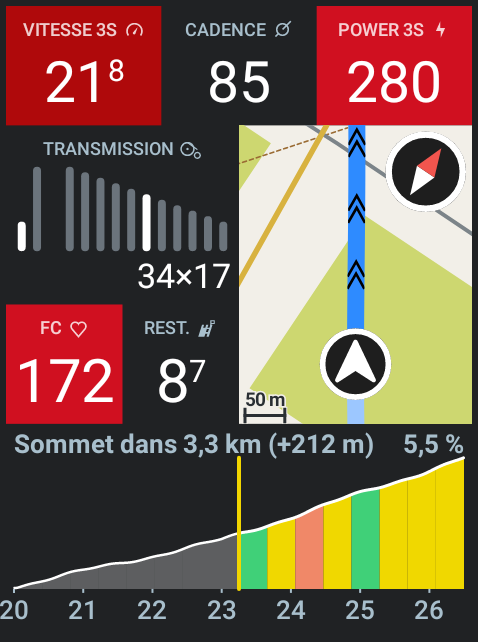
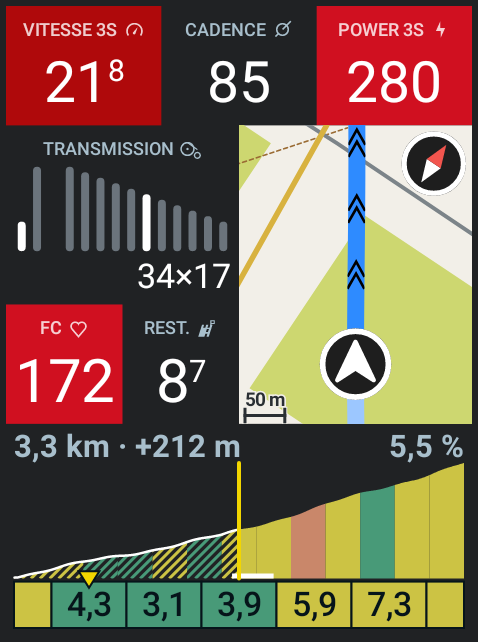
Montre le bilan en deux pages de six dans le simulateur et le README
La page de dix n'était plus celle du coureur, et les cases y restaient trop petites pour que
leur disposition empilée se déclenche : le simulateur jugeait une page que personne ne pose.

Changed region(s): [[0.0, 0.6542, 0.9958, 0.9969], [0.0293, 0.6542, 0.7908, 0.7165], [0.7908, 0.1869, 0.9665, 0.3427]]

diff --git a/app/src/test/kotlin/io/github/jmallus/guidage/sim/SimulateurTest.kt b/app/src/test/kotlin/io/github/jmallus/guidage/sim/SimulateurTest.kt
@@ -340,7 +340,7 @@ class SimulateurTest {
     }
 
     /**
-     * Les six cases de bilan, à la taille qu'elles ont sur une page qui en porte dix.
+     * Les cases de bilan, à la taille qu'elles ont sur une page qui en porte six.
      *
      * Elles se contrôlent aux mêmes moments que le reste, et pour la même raison : une case
      * qui n'a rien à dire ne lève aucune exception et se compile parfaitement. Elle ne se
@@ -362,9 +362,7 @@ class SimulateurTest {
                     couleursDistinctes(image) > 2,
                 )
             }
-            if (part == PART_CAPTURE) {
-                ecrire(pageDeBilan(simulateur, secondes), File(dossier, "champ-bilan.png"))
-            }
+            if (part == PART_CAPTURE) ecrirePagesDeBilan(simulateur, secondes, dossier, "champ-bilan")
         }
 
         // Une seconde planche à la fin de la sortie. Trois cases n'existent pas au quart :
@@ -372,22 +370,30 @@ class SimulateurTest {
         // la batterie n'a pas assez descendu pour qu'on lui connaisse une pente. Une planche
         // qui ne montre que leurs messages d'attente ne les juge pas.
         val fin = simulateur.sortie.duree * PART_CAPTURE_FIN
-        ecrire(pageDeBilan(simulateur, fin), File(dossier, "champ-bilan-fin.png"))
+        ecrirePagesDeBilan(simulateur, fin, dossier, "champ-bilan-fin")
+    }
+
+    /** Une image par page : « champ-bilan.png » pour la première, « champ-bilan-2.png »… */
+    private fun ecrirePagesDeBilan(simulateur: Simulateur, secondes: Double, dossier: File, nom: String) {
+        Simulateur.PAGES_BILAN.forEachIndexed { rang, cases ->
+            val suffixe = if (rang == 0) "" else "-${rang + 1}"
+            ecrire(pageDeBilan(simulateur, secondes, cases), File(dossier, "$nom$suffixe.png"))
+        }
     }
 
     /**
-     * Les six cases posées comme sur une page : deux colonnes, trois rangs.
+     * Une page de cases de bilan, posée comme sur le Karoo : deux colonnes, trois rangs.
+     * Une page incomplète garde sa hauteur, ses rangs vides compris.
      *
      * Elles se jugent ensemble et non une par une — c'est tout leur propos, une page où l'on
      * lit le bilan d'un coup d'œil — et six fichiers séparés ne montreraient pas si leurs
      * chiffres s'alignent, si leurs libellés font famille, si un aplat écrase ses voisins.
      * Les traits sont ceux que le Karoo pose lui-même entre les champs d'une page.
      */
-    private fun pageDeBilan(simulateur: Simulateur, secondes: Double): Bitmap {
+    private fun pageDeBilan(simulateur: Simulateur, secondes: Double, cases: List<Bilan>): Bitmap {
         val largeur = Simulateur.LARGEUR_BILAN
         val hauteur = Simulateur.HAUTEUR_BILAN
-        val cases = Bilan.entries
-        val rangs = (cases.size + 1) / 2
+        val rangs = 3
         val page = Bitmap.createBitmap(largeur * 2, hauteur * rangs, Bitmap.Config.ARGB_8888)
         val canvas = Canvas(page)
         cases.forEachIndexed { index, variante ->
@@ -478,7 +484,8 @@ class SimulateurTest {
         // Les pleines pages d'abord, chacune tenant sa colonne ; les champs de bande ensuite.
         champ("Tableau de bord", simulateur.image(secondes)),
         champ("Profil à venir", simulateur.imageProfil(secondes)),
-        champ("Bilan", pageDeBilan(simulateur, secondes)),
+        champ("Bilan 1/2", pageDeBilan(simulateur, secondes, Simulateur.PAGES_BILAN[0])),
+        champ("Bilan 2/2", pageDeBilan(simulateur, secondes, Simulateur.PAGES_BILAN[1])),
     )
 
     private fun champ(nom: String, image: Bitmap) =

diff --git a/app/src/test/kotlin/io/github/jmallus/guidage/sim/Simulateur.kt b/app/src/test/kotlin/io/github/jmallus/guidage/sim/Simulateur.kt
@@ -271,9 +271,8 @@ class Simulateur(
     /**
      * Une case de bilan, à la taille qu'elle a sur une page qui en porte dix.
      *
-     * Le Karoo découpe l'écran sur une grille de soixante : dix cases font deux colonnes de
-     * cinq, soit une demi-largeur sur un cinquième de hauteur. C'est la seule taille où ces
-     * cases se jugent — à pleine page elles seraient somptueuses et personne ne les y mettrait.
+     * Le Karoo découpe l'écran sur une grille de soixante : six cases font deux colonnes de
+     * trois, soit une demi-largeur sur un tiers de hauteur — la page du coureur.
      */
     fun imageBilan(
         variante: Bilan,
@@ -390,9 +389,18 @@ class Simulateur(
          */
         val HAUTEUR_PROFIL: Int = HAUTEUR / 4
 
-        /** Une case de bilan sur une page qui en porte dix : 30 × 12 sur la grille. */
+        /**
+         * Une case de bilan sur une page qui en porte six : 30 × 20 sur la grille.
+         *
+         * C'était une page de dix, et les cases y étaient illisibles en roulant ; le coureur
+         * les a passées à six par page, sur deux pages, et c'est à cette taille qu'elles se
+         * jugent désormais.
+         */
         val LARGEUR_BILAN: Int = LARGEUR / 2
-        val HAUTEUR_BILAN: Int = HAUTEUR / 5
+        val HAUTEUR_BILAN: Int = HAUTEUR / 3
+
+        /** Les cases de chaque page de bilan, dans l'ordre où le coureur les a posées. */
+        val PAGES_BILAN: List<List<Bilan>> = Bilan.entries.chunked(6)
 
         /**
          * Le corps que le Karoo emploie lui-même pour un champ numérique de cette taille.

diff --git a/README.md b/README.md
@@ -37,7 +37,7 @@ qui le dessine.
 ### Le bilan de la sortie
 
 Dix cases qui disent ce que la sortie **vaut depuis le départ**. Elles tiennent chacune dans
-une case ordinaire — une page en porte dix — et c'est là toute leur raison d'être : le Karoo
+une case ordinaire — une page en porte six pour les lire en roulant — et c'est là toute leur raison d'être : le Karoo
 publie déjà la plupart de ces nombres, mais **un par champ**, si bien qu'une moyenne et son
 maximum coûtent deux emplacements et que le coureur fait la soustraction de tête. Ici les deux
 voyagent ensemble, et la case dit en plus ce que leur voisinage veut dire.
@@ -68,14 +68,18 @@ l'extension, faits localement et sans réseau comme tout le reste :
   paie. Aucun compteur ne l'affiche en roulant. Elle se calcule sur le temps d'effort seul et
   se tait sous une heure.
 
-Les dix, posées comme sur une page — au quart de la sortie simulée, puis à son terme. Trois
-d'entre elles n'existent pas encore au quart : la dérive se tait, les haltes n'ont pas eu
-lieu, la charge n'a pas assez descendu pour qu'on lui connaisse une pente.
+Les dix, posées six par page sur deux pages — au quart de la sortie simulée, puis à son
+terme. Trois d'entre elles n'existent pas encore au quart : la dérive se tait, les haltes
+n'ont pas eu lieu, la charge n'a pas assez descendu pour qu'on lui connaisse une pente.
 
 <table>
   <tr>
-    <td align="center"><img src="docs/captures/champ-bilan.png" width="300" alt="Les dix cases de bilan au quart de la sortie"><br><b>Au quart de la sortie</b></td>
-    <td align="center"><img src="docs/captures/champ-bilan-fin.png" width="300" alt="Les dix cases de bilan à l'arrivée"><br><b>À l'arrivée</b></td>
+    <td align="center"><img src="docs/captures/champ-bilan.png" width="240" alt="Première page de bilan au quart de la sortie"><br><b>Page 1, au quart</b></td>
+    <td align="center"><img src="docs/captures/champ-bilan-2.png" width="240" alt="Seconde page de bilan au quart de la sortie"><br><b>Page 2, au quart</b></td>
+  </tr>
+  <tr>
+    <td align="center"><img src="docs/captures/champ-bilan-fin.png" width="240" alt="Première page de bilan à l'arrivée"><br><b>Page 1, à l'arrivée</b></td>
+    <td align="center"><img src="docs/captures/champ-bilan-fin-2.png" width="240" alt="Seconde page de bilan à l'arrivée"><br><b>Page 2, à l'arrivée</b></td>
   </tr>
 </table>
 
